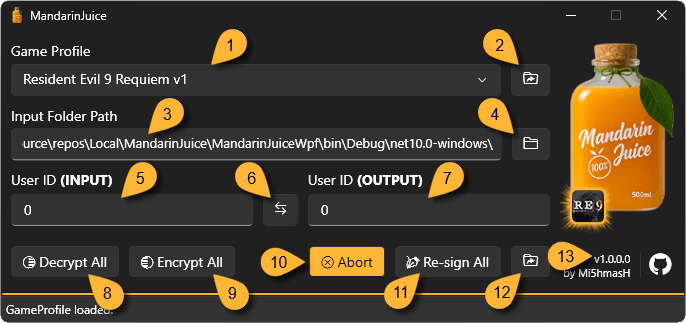
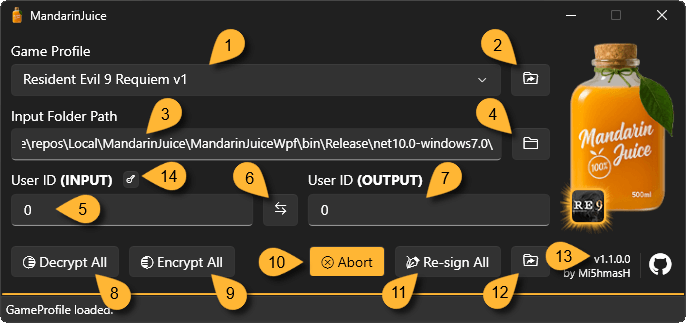
Update README.md

diff --git a/README.md b/README.md
@@ -99,6 +99,7 @@ If you want to encrypt the decrypted SaveData file\s, select the Game Profile **
 ### OTHER BUTTONS
 Button **(6)** swaps the values in the **"User ID (INPUT)"** and **"User ID (OUTPUT)"** TextBoxes.
 Button **(10)** cancels the currently running operation.
+Button **(14)** uses a brute‑force approach to find the correct UserID for source SaveData file.
 
 ## [CLI] - 🪟 Windows | 🐧 Linux | 🍎 macOS
 
@@ -109,6 +110,7 @@ Modes:
   -m d  Decrypt SaveData files
   -m e  Encrypt SaveData files
   -m r  Re-sign SaveData files
+  -m b  Bruteforce User ID for the first file in the input directory
 
 Options:
   -g <game_profile_path>  Path to the Game Profile file
@@ -132,6 +134,10 @@ Options:
 #### Re-sign
 ```bash
 .\mandarin-juice-cli.exe -m r -g ".\game_profile.bin" -p ".\InputDirectory" -uI 76561197960265729 -uO 76561197960265730
+```
+#### Bruteforce
+```bash
+.\mandarin-juice-cli.exe -m b -g ".\game_profile.bin" -p ".\InputDirectory"
 ```
 
 > [!NOTE]
